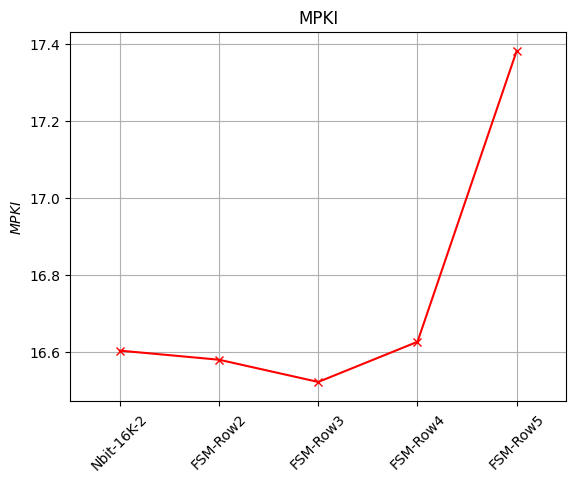
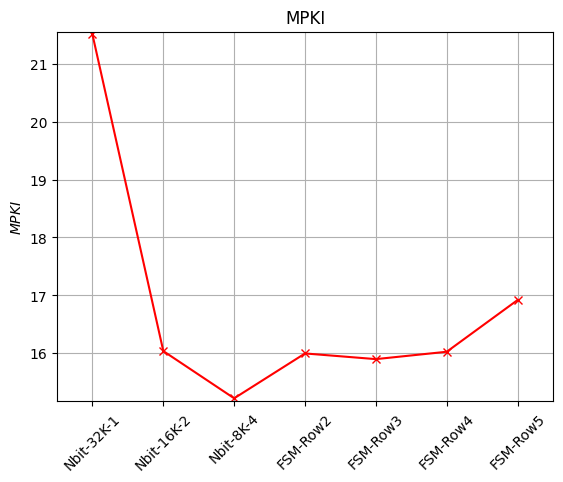
Solving 5.3iii, before running the script for every file.

diff --git a/pintool/cslab_branch.cpp b/pintool/cslab_branch.cpp
@@ -168,27 +168,46 @@ VOID Fini(int code, VOID *v)
 
 /* ===================================================================== */
 
-// N-bit predictors
-/*
-for (int i=1; i <= 4; i++) {
-    NbitPredictor *nbitPred = new NbitPredictor(14, i); // 2^14 = 16k (16384)
-    branch_predictors.push_back(nbitPred);
-}
-*/
 VOID InitPredictors()
 {
+    /* Question 5.3 (i)
+    // N-bit predictors
+
+    for (int i=1; i <= 4; i++) {
+        NbitPredictor *nbitPred = new NbitPredictor(14, i); // 2^14 = 16k (16384)
+        branch_predictors.push_back(nbitPred);
+    }
+
+    */
+    /* Question 5.3 (ii)
     // Row 1
-    NbitPredictor *nbitPred = new NbitPredictor(14, 2); // 2-bit saturating counter 
+    NbitPredictor *nbitPred = new NbitPredictor(15, 2); // 2-bit saturating counter 
     branch_predictors.push_back(nbitPred);
     for (int row = 2; row <= 5; row++)
     {
         branch_predictors.push_back(new FSMPredictor(row));
     }
-}
+    */
+    /* Question 5.3 (iii) 
+    */
+    // — N-bit predictors with constant hardware 32K bits —
+    // N=1bit → index_bits=15
+    branch_predictors.push_back(new NbitPredictor(15, 1));
+    // N=2bit → index_bits=14
+    branch_predictors.push_back(new NbitPredictor(14, 2));
+    // N=4bit → index_bits=13
+    branch_predictors.push_back(new NbitPredictor(13, 4));
 
-// Pentium-M predictor
-// PentiumMBranchPredictor *pentiumPredictor = new PentiumMBranchPredictor();
-// branch_predictors.push_back(pentiumPredictor);
+    // — For N=2 also the alternative FSMs (rows 2–5) —
+    for (unsigned r = 2; r <= 5; ++r) {
+        branch_predictors.push_back(new FSMPredictor(r));
+    }
+
+    /* // Pentium-M predictor
+    PentiumMBranchPredictor *pentiumPredictor = new PentiumMBranchPredictor();
+    branch_predictors.push_back(pentiumPredictor);
+    */
+}
 
 VOID InitRas()
 {

diff --git a/plot_mpki_ipc.py b/plot_mpki_ipc.py
@@ -7,7 +7,7 @@ import matplotlib.pyplot as plt
 import numpy as np
 
 ## For nbit predictors
-predictors_to_plot = [ "  Nbit-16K-" , "  FSM" ]
+predictors_to_plot = [ "  Nbit" , "  FSM" ]
 
 x_Axis = []
 mpki_Axis = []
